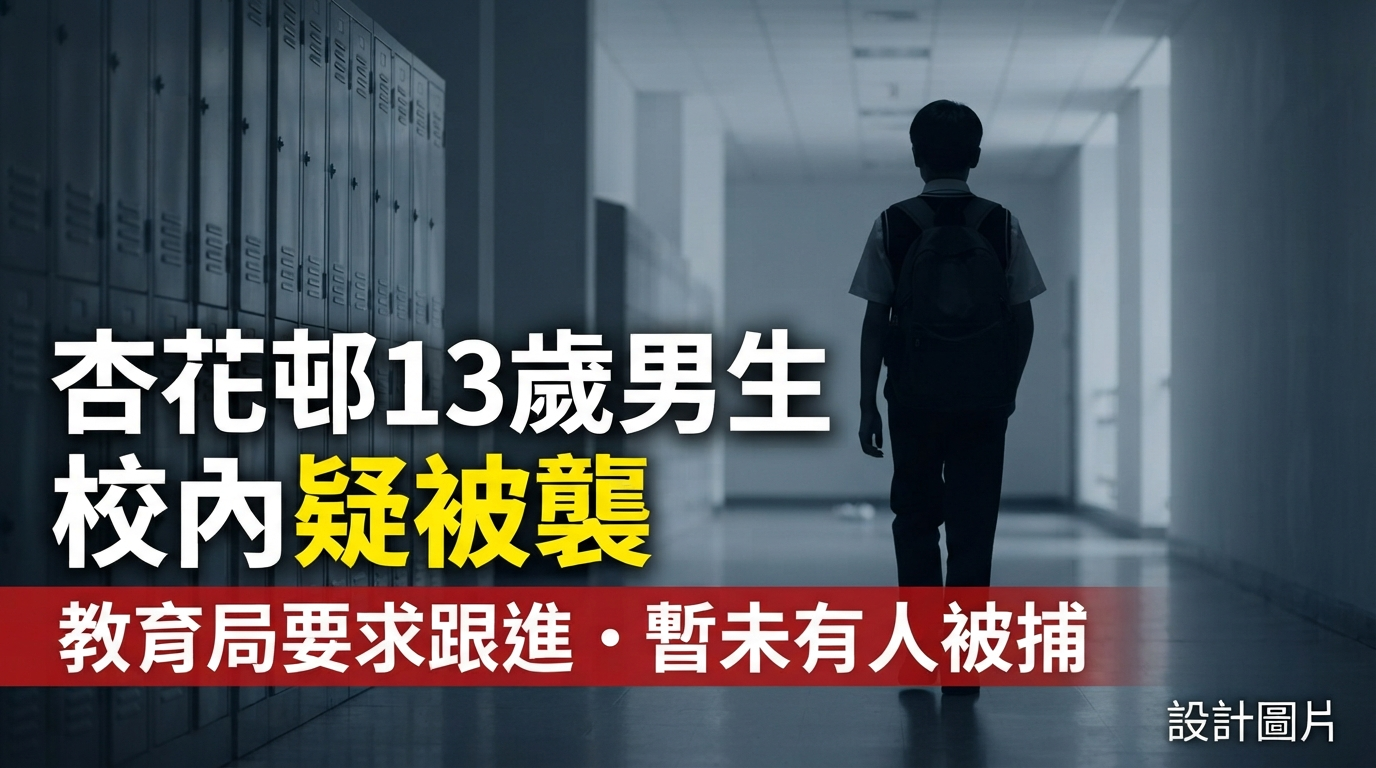
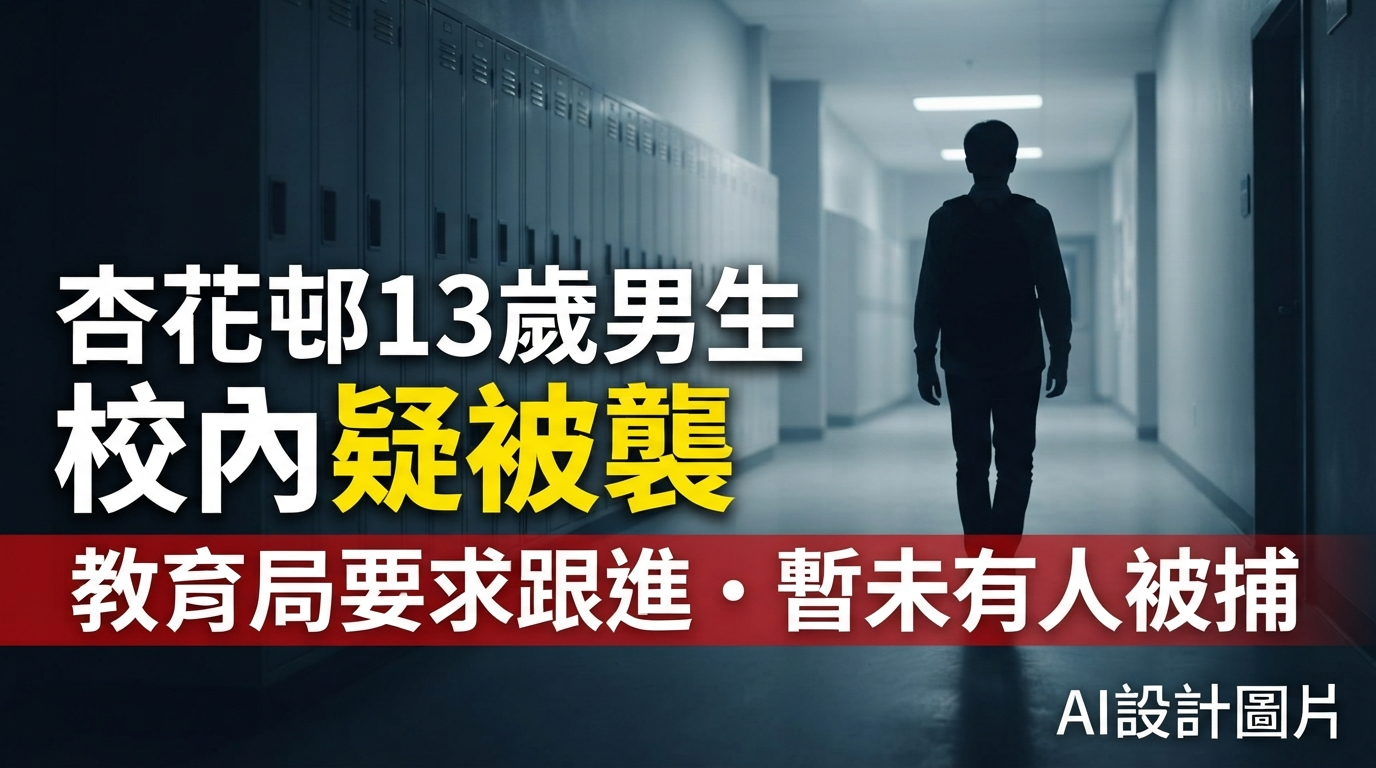
Switch 2 articles to hkcnexpress.com URLs; relabel design images to AI設計圖片

diff --git a/a/20261113-nvidia-huang-resigns.html b/a/20261113-nvidia-huang-resigns.html
@@ -9,8 +9,8 @@
 <meta property="og:site_name" content="中港新聞速報 HK-China News Express">
 <meta property="og:title" content="輝達震撼換帥　黃仁勳即日辭任行政總裁　財務總監暫代掌舵">
 <meta property="og:description" content="輝達董事會宣布，創辦人黃仁勳即日起辭去總裁、行政總裁及董事職務，結束 33 年掌舵生涯。董事會已啟動正式行政總裁遴選程序，將同時考慮內部及外部人選；在正式繼任人出爐前，由執行副總裁兼財務總監 Colette Kress 暫代行政總裁，並任命 Harvey C. Jones 為公司首位董事會主席。聲明感謝黃仁勳過去 33 年的貢獻，強調公司營運、客戶承諾及產品路線圖將繼續順利推進。Kress 自 2013 年 9 月起領導集團財務團隊，此前在思科及微軟從事財務工作近 25 年；Jones 擁有逾 30 年企業家、科技主管及創投經驗，曾任新思科技執行主席兼行政總裁。">
-<meta property="og:image" content="https://hkcn-news.vercel.app/assets/design/20261113-nvidia-huang-resigns-design.jpg">
-<meta property="og:url" content="https://hkcn-news.vercel.app/a/20261113-nvidia-huang-resigns.html">
+<meta property="og:image" content="https://hkcnexpress.com/assets/design/20261113-nvidia-huang-resigns-design.jpg">
+<meta property="og:url" content="https://hkcnexpress.com/a/20261113-nvidia-huang-resigns.html">
 <meta name="twitter:card" content="summary_large_image">
 <link rel="icon" href="../assets/logo-light.png">
 <link rel="stylesheet" href="../assets/style.css">
@@ -30,14 +30,14 @@ function logoFallback(){var b=document.getElementById("brandName");if(b)b.style.
   </div>
 </header>
 <main class="article-wrap">
-<div class="article-hero"><img src="https://hkcn-news.vercel.app/assets/design/20261113-nvidia-huang-resigns-design.jpg" alt="" referrerpolicy="no-referrer" onerror="this.outerHTML='<div class=&quot;noimg&quot;>🏅</div>'"></div>
+<div class="article-hero"><img src="https://hkcnexpress.com/assets/design/20261113-nvidia-huang-resigns-design.jpg" alt="" referrerpolicy="no-referrer" onerror="this.outerHTML='<div class=&quot;noimg&quot;>🏅</div>'"></div>
   <div class="card-top"><span class="cat-tag">tech</span><span>2026-11-13 00:20</span><span> · TechCrunch</span></div>
   <h1 class="article-title">輝達震撼換帥　黃仁勳即日辭任行政總裁　財務總監暫代掌舵</h1>
   <p class="lead article-summary">輝達董事會宣布，創辦人黃仁勳即日起辭去總裁、行政總裁及董事職務，結束 33 年掌舵生涯。董事會已啟動正式行政總裁遴選程序，將同時考慮內部及外部人選；在正式繼任人出爐前，由執行副總裁兼財務總監 Colette Kress 暫代行政總裁，並任命 Harvey C. Jones 為公司首位董事會主席。聲明感謝黃仁勳過去 33 年的貢獻，強調公司營運、客戶承諾及產品路線圖將繼續順利推進。Kress 自 2013 年 9 月起領導集團財務團隊，此前在思科及微軟從事財務工作近 25 年；Jones 擁有逾 30 年企業家、科技主管及創投經驗，曾任新思科技執行主席兼行政總裁。</p>
   <div class="tags article-tags"><button class="tag">#輝達</button><button class="tag">#黃仁勳</button><button class="tag">#Nvidia</button></div>
   <div style="margin:20px 0;display:flex;gap:10px;flex-wrap:wrap">
     <a class="abtn primary" style="font-size:15px;padding:10px 22px" href="https://techcrunch.com/2026/11/12/nvidias-jensen-huang-resigns-chipmaker-names-cfo-colette-kress-as-interim-ceo/" target="_blank" rel="noopener">閱讀原文 →</a>
-    <a class="abtn" style="font-size:15px;padding:10px 18px" href="https://www.facebook.com/sharer/sharer.php?u=https://hkcn-news.vercel.app/a/20261113-nvidia-huang-resigns.html" target="_blank" rel="noopener">分享到 Facebook</a>
+    <a class="abtn" style="font-size:15px;padding:10px 18px" href="https://www.facebook.com/sharer/sharer.php?u=https://hkcnexpress.com/a/20261113-nvidia-huang-resigns.html" target="_blank" rel="noopener">分享到 Facebook</a>
   </div>
 </main>
 <footer><p>摘要由本站重新編寫，配圖為 AI 設計圖片。</p></footer>

diff --git a/a/20261113-hengfa-lingnan-assault.html b/a/20261113-hengfa-lingnan-assault.html
@@ -9,8 +9,8 @@
 <meta property="og:site_name" content="中港新聞速報 HK-China News Express">
 <meta property="og:title" content="杏花邨13歲男生校內疑被襲　教育局要求學校跟進　暫未有人被捕">
 <meta property="og:description" content="杏花邨嶺南中學一名13歲男生，本周二（10日）在校內懷疑被人用手襲擊，事後清醒送院檢查。警方初步調查後將案件列為「普通襲擊」，交由東區警區反三合會行動組跟進，暫未有人被捕。校方稱知悉事件後即時啟動危機處理機制調查，並聯絡涉事學生家長，翌日陪同家長報警；校方表示會全力配合警方調查，與教育局保持緊密聯繫，並為相關學生提供適切支援。教育局已要求學校跟進事件。">
-<meta property="og:image" content="https://hkcn-news.vercel.app/assets/design/20261113-hengfa-school-assault-design.jpg">
-<meta property="og:url" content="https://hkcn-news.vercel.app/a/20261113-hengfa-lingnan-assault.html">
+<meta property="og:image" content="https://hkcnexpress.com/assets/design/20261113-hengfa-school-assault-design.jpg">
+<meta property="og:url" content="https://hkcnexpress.com/a/20261113-hengfa-lingnan-assault.html">
 <meta name="twitter:card" content="summary_large_image">
 <link rel="icon" href="../assets/logo-light.png">
 <link rel="stylesheet" href="../assets/style.css">
@@ -30,14 +30,14 @@ function logoFallback(){var b=document.getElementById("brandName");if(b)b.style.
   </div>
 </header>
 <main class="article-wrap">
-<div class="article-hero"><img src="https://hkcn-news.vercel.app/assets/design/20261113-hengfa-school-assault-design.jpg" alt="" referrerpolicy="no-referrer" onerror="this.outerHTML='<div class=&quot;noimg&quot;>🏅</div>'"></div>
+<div class="article-hero"><img src="https://hkcnexpress.com/assets/design/20261113-hengfa-school-assault-design.jpg" alt="" referrerpolicy="no-referrer" onerror="this.outerHTML='<div class=&quot;noimg&quot;>🏅</div>'"></div>
   <div class="card-top"><span class="cat-tag">society</span><span>2026-11-13 00:15</span><span> · Dim Sum Daily</span></div>
   <h1 class="article-title">杏花邨13歲男生校內疑被襲　教育局要求學校跟進　暫未有人被捕</h1>
   <p class="lead article-summary">杏花邨嶺南中學一名13歲男生，本周二（10日）在校內懷疑被人用手襲擊，事後清醒送院檢查。警方初步調查後將案件列為「普通襲擊」，交由東區警區反三合會行動組跟進，暫未有人被捕。校方稱知悉事件後即時啟動危機處理機制調查，並聯絡涉事學生家長，翌日陪同家長報警；校方表示會全力配合警方調查，與教育局保持緊密聯繫，並為相關學生提供適切支援。教育局已要求學校跟進事件。</p>
   <div class="tags article-tags"><button class="tag">#杏花邨</button><button class="tag">#嶺南中學</button><button class="tag">#校園襲擊</button></div>
   <div style="margin:20px 0;display:flex;gap:10px;flex-wrap:wrap">
     <a class="abtn primary" style="font-size:15px;padding:10px 22px" href="https://www.dimsumdaily.hk/family-alleges-group-bullying-at-lingnan-secondary-school-confirms-clash-penalty-seen-as-too-light/" target="_blank" rel="noopener">閱讀原文 →</a>
-    <a class="abtn" style="font-size:15px;padding:10px 18px" href="https://www.facebook.com/sharer/sharer.php?u=https://hkcn-news.vercel.app/a/20261113-hengfa-lingnan-assault.html" target="_blank" rel="noopener">分享到 Facebook</a>
+    <a class="abtn" style="font-size:15px;padding:10px 18px" href="https://www.facebook.com/sharer/sharer.php?u=https://hkcnexpress.com/a/20261113-hengfa-lingnan-assault.html" target="_blank" rel="noopener">分享到 Facebook</a>
   </div>
 </main>
 <footer><p>摘要由本站重新編寫，配圖為 AI 設計圖片。</p></footer>
